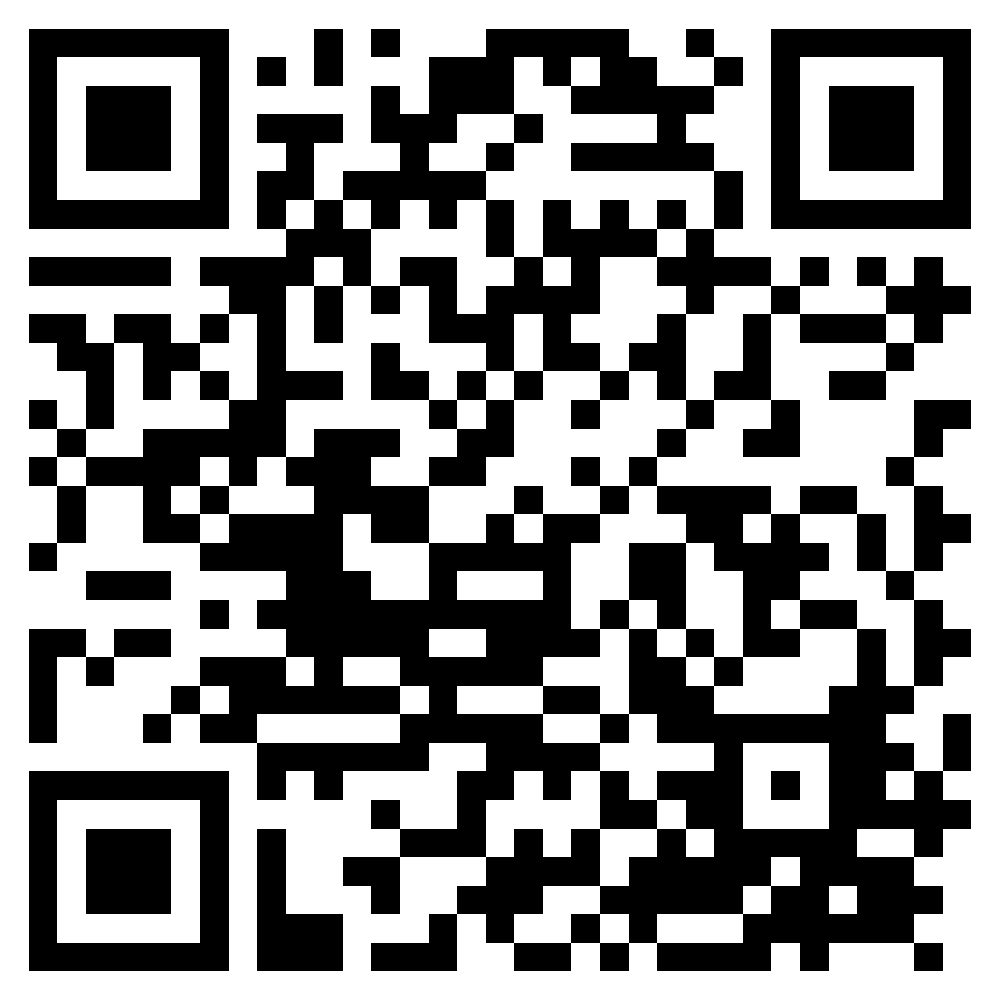
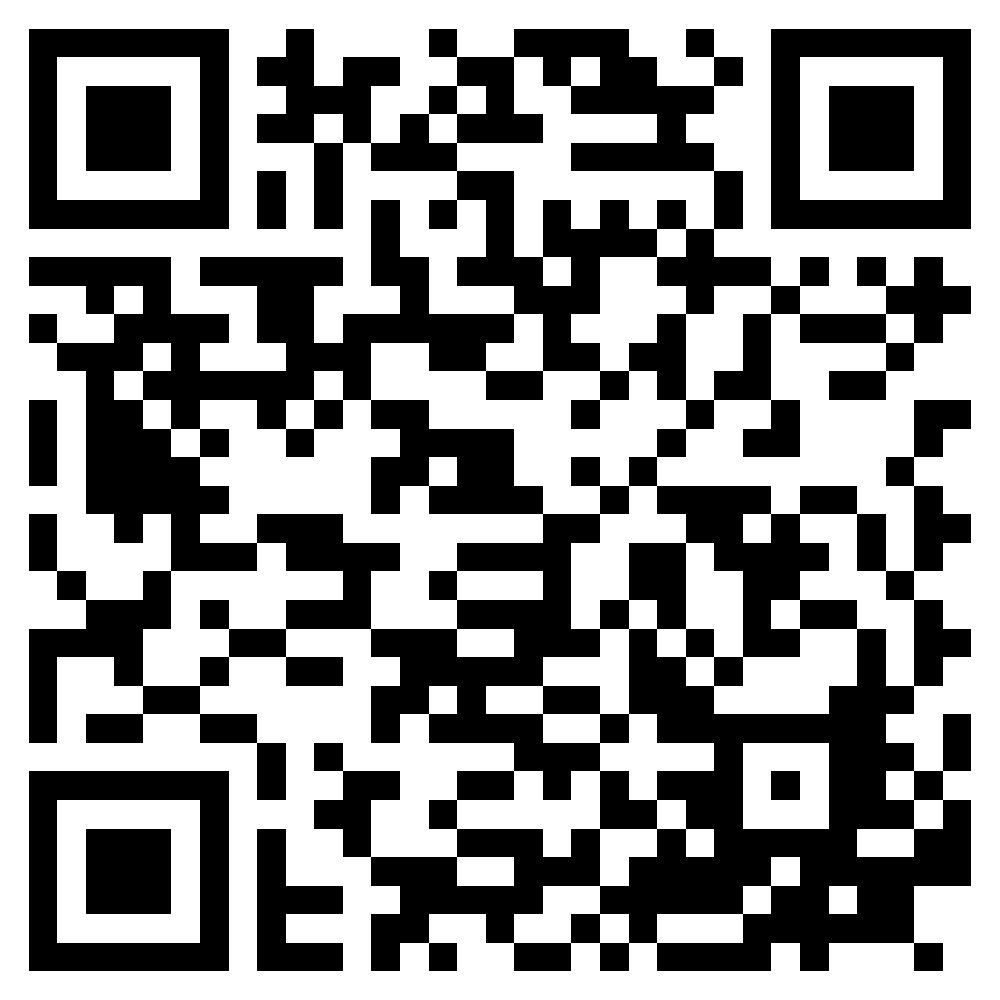
change readme and Qr code

Changed region(s): [[0.031, 0.031, 0.527, 0.992], [0.899, 0.806, 0.992, 0.93]]

diff --git a/README.md b/README.md
@@ -4,6 +4,6 @@ Name: Ohad Miller
 
 User name: ohad13
 
-Link: https://web-development-environments-2022.github.io/assignment1-ohad13/
+Link: https://web-development-environments-2022.github.io/313597718/
 
 
